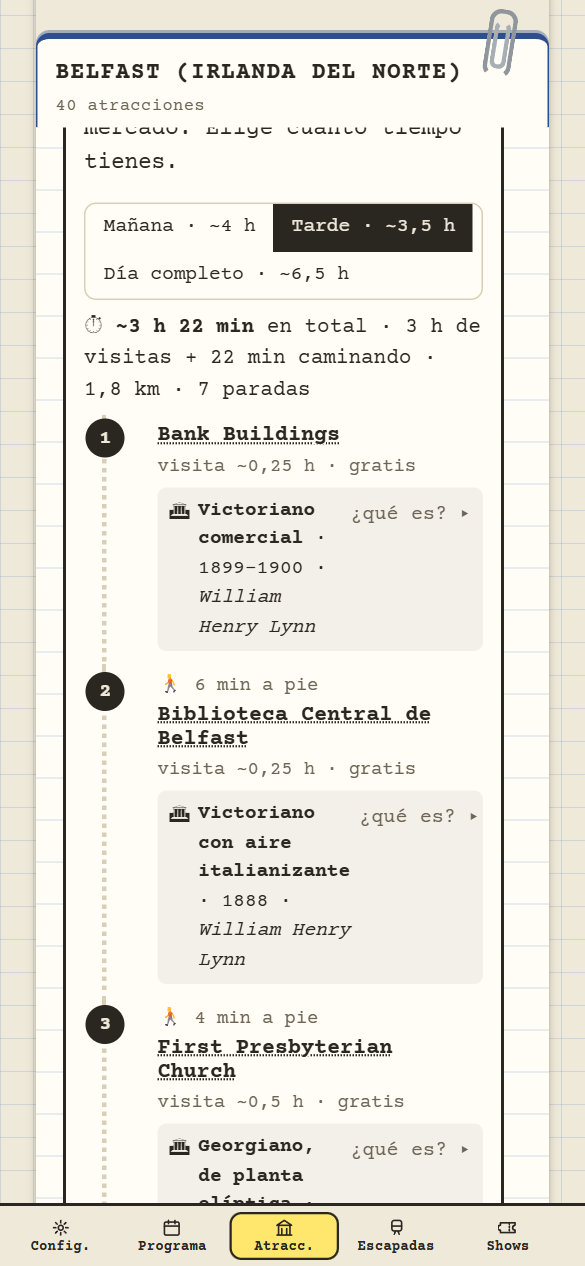
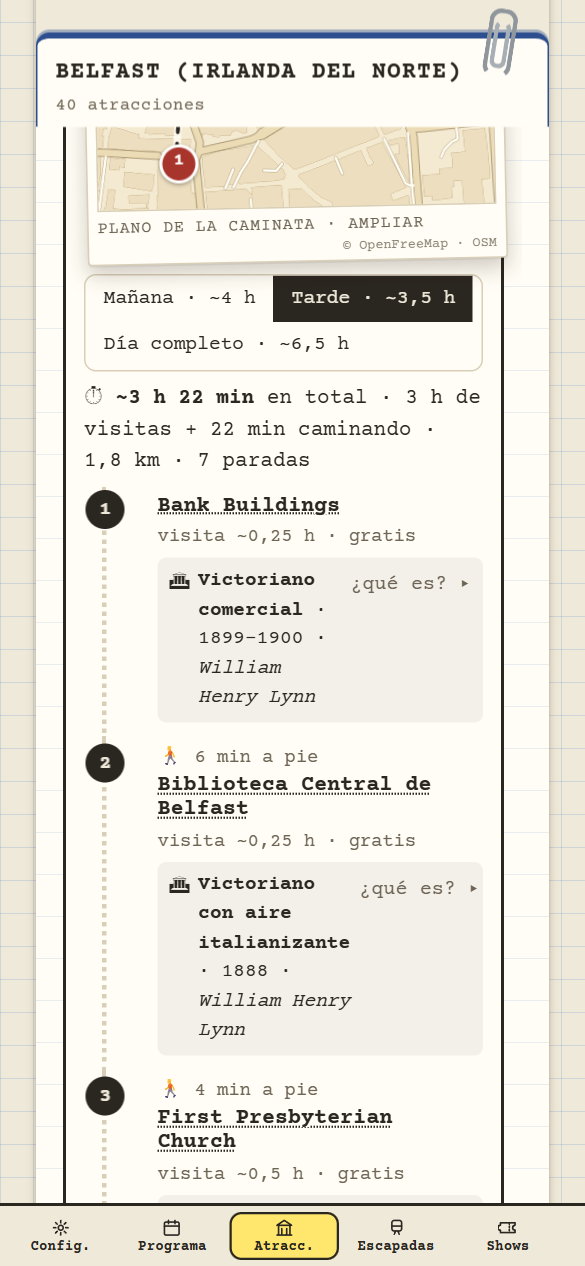
Atracciones: el carrusel toma la altura de la ficha actual; plano con clip para cada caminata (puntos numerados y recorrido); prompts de ilustraciones de Belfast

diff --git a/v2/pestanas.js b/v2/pestanas.js
@@ -3,6 +3,7 @@
 import {SUB,selDe,diasDe,CAP,GRUPOS,grupoDe,agrupar} from "./motor.js";
 import {alternarAtr,formNueva,quitarCustom,bindNueva,diasCiudad} from "./programa.js";
 import {arqHTML} from "./estilos.js";
+import {mlStyle} from "./mlstyle.js";
 
 const COL=["#2e4f8f","#1d6f7a","#a8352b","#2e6b4f","#b8860b","#7b4ba0","#c2477f"];
 const FM=v=>(+v).toLocaleString("es-CL",{maximumFractionDigits:2})+" €";
@@ -56,6 +57,21 @@ function contextoHTML(ctx,cid){const M=ctx.M[cid],C=M.CONTEXTO,U=M.UNDIA||[],ME=
   if(ME.length)h+=`<details class="cxs" data-cx="${cid}:med"${cxOpen(cid+":med")}><summary>🎬 Cine, música y libros para conocerla</summary>
    <div class="media">${ME.map(([t,tipo,d,ed])=>`<div class="mi"><b>${ctx.esc(t)}</b><small>${ctx.esc(tipo)}${ed?" · "+ctx.esc(ed):""}</small><p>${ctx.esc(d)}</p></div>`).join("")}</div></details>`;
   return h}
+// ---------- plano de cada caminata (mismo estilo que el plano del día del Programa)
+let RM=[];
+function mapaRuta(ctx,el,P){const m=new maplibregl.Map({container:el,style:mlStyle(),interactive:true,attributionControl:false,
+    bounds:[[Math.min(...P.map(a=>a.ll[1])),Math.min(...P.map(a=>a.ll[0]))],[Math.max(...P.map(a=>a.ll[1])),Math.max(...P.map(a=>a.ll[0]))]],fitBoundsOptions:{padding:30,maxZoom:16}});
+  m.scrollZoom.disable();m.dragPan.disable();m.touchZoomRotate.disable();m.doubleClickZoom.disable();el._m=m;RM.push(m);
+  P.forEach((a,k)=>{const w=document.createElement("div");w.className="mlmk";w.innerHTML=`<div class="lm-a${a.top?" top":""}">${k+1}</div>`;new maplibregl.Marker({element:w,anchor:"left",offset:[-11,0]}).setLngLat([a.ll[1],a.ll[0]]).addTo(m)});
+  m.on("load",()=>{const f=P.slice(1).map((a,i)=>({type:"Feature",properties:{},geometry:{type:"LineString",coordinates:[[P[i].ll[1],P[i].ll[0]],[a.ll[1],a.ll[0]]]}}));
+    m.addSource("walk",{type:"geojson",data:{type:"FeatureCollection",features:f}});
+    m.addLayer({id:"walk-h",type:"line",source:"walk",layout:{"line-cap":"round","line-join":"round"},paint:{"line-color":"#fffdf5","line-width":5,"line-opacity":.85}});
+    m.addLayer({id:"walk",type:"line",source:"walk",layout:{"line-cap":"round","line-join":"round"},paint:{"line-color":"#2a2620","line-width":2.6,"line-dasharray":[0.2,2]}})});
+  return m}
+function initMapasRuta(ctx){if(!window.maplibregl)return;
+  document.querySelectorAll(".lmap[data-rmap]").forEach(el=>{if(el._m||!el.offsetParent)return;const [cid,rid,k]=el.dataset.rmap.split(":"),ru=(ctx.M[cid].RUTAS||[]).find(x=>x.id===rid),v=ru&&(ru.v||[]).find(x=>x.k===k);if(!v)return;
+    const A=Object.fromEntries((ctx.M[cid].ATRACCIONES||[]).map(a=>[a.id,a])),P=v.ids.map(i=>A[i]).filter(a=>a&&a.ll);if(P.length<1)return;
+    try{el.classList.add("ml");mapaRuta(ctx,el,P)}catch(e){console.warn("mapa ruta",e);el.classList.remove("ml")}})}
 // ---------- recorridos a pie temáticos, según el tiempo disponible
 const hmin=m=>{m=Math.round(m);const h=Math.floor(m/60),x=m%60;return h?`${h} h${x?" "+x+" min":""}`:`${x} min`};
 function datosRuta(ctx,cid,v){const A=Object.fromEntries((ctx.M[cid].ATRACCIONES||[]).map(a=>[a.id,a])),P=(v.ids||[]).map(i=>A[i]).filter(Boolean);
@@ -66,6 +82,7 @@ function rutasHTML(ctx,cid){const M=ctx.M[cid],R=M.RUTAS||[];if(!R.length)return
    <p class="muted" style="margin-top:0">Cada recorrido viene en versiones según el tiempo que tengas. Al agregarlo, sus paradas pasan al programa y se reparten en tus días.</p>
    <div class="rutarail">${R.map(ru=>{const vs=ru.v||[],cur=vs.find(x=>x.k===E.rv[cid+":"+ru.id])||vs[0];if(!cur)return "";const d=datosRuta(ctx,cid,cur),todo=cur.ids.every(i=>S.has(i));
     return `<div class="ruta"><h3>${ru.e||"🚶"} ${ctx.esc(ru.n)}</h3>${ru.d?`<p>${ctx.esc(ru.d)}</p>`:""}${ilu(ctx,ru.img)}
+     ${window.maplibregl?`<div class="mapclip lclip rmapclip" data-rclip="${cid}:${ru.id}:${cur.k}" role="button" tabindex="0" aria-label="Ampliar el plano de la caminata"><span class="clip" aria-hidden="true"></span><div class="lmap" data-rmap="${cid}:${ru.id}:${cur.k}"></div><span class="mc-cap">Plano de la caminata · ampliar</span><span class="mc-cr">© OpenFreeMap · OSM</span></div>`:""}
      <div class="seg" role="group" aria-label="Tiempo disponible">${vs.map(x=>{const t2=datosRuta(ctx,cid,x).tot,hh=Math.round(t2/30)/2;return `<button type="button" data-rv="${cid}:${ru.id}:${x.k}" aria-pressed="${x.k===cur.k}">${ctx.esc(x.n)} · ~${String(hh).replace(".",",")} h</button>`}).join("")}</div>
      <p class="rtot">⏱ <b>~${hmin(d.tot)}</b> en total · ${hmin(d.vis*60)} de visitas + ${hmin(d.cam)} caminando · ${d.km.toFixed(1).replace(".",",")} km · ${d.T.length} paradas</p>
      <ol class="rstops">${d.T.map(({a,w},i)=>`<li>${i?`<span class="rwalk">🚶 ${w} min a pie</span>`:""}<button type="button" class="aln" data-fjump="fa-${cid}-${a.id}">${ctx.esc(limpiaN(a.n))}</button><small>visita ~${num1(a.h)} h · ${a.p?FM(a.p):"gratis"}</small>${a.arq?arqHTML(a.arq):""}${cur.n2&&cur.n2[a.id]?`<em>${ctx.esc(cur.n2[a.id])}</em>`:""}</li>`).join("")}</ol>
@@ -120,6 +137,12 @@ export function atracciones(ctx){
 }
 export function bindAtracciones(ctx){const Q=(s,f)=>document.querySelectorAll(s).forEach(f),R=()=>{ctx.guardar();ctx.render()};
   bindNueva(ctx);
+  RM.forEach(m=>{try{m.remove()}catch(e){}});RM=[];
+  Q(".rmapclip",c=>{const tog=()=>{const big=c.classList.toggle("rbig"),m=c.querySelector(".lmap")._m;c.querySelector(".mc-cap").textContent=big?"Plano de la caminata · reducir":"Plano de la caminata · ampliar";
+      if(m){setTimeout(()=>{m.resize();const b=m.getBounds();m.fitBounds(b,{padding:30,duration:0});if(big){m.dragPan.enable();m.touchZoomRotate.enable();m.scrollZoom.disable()}else{m.dragPan.disable();m.touchZoomRotate.disable()}},60)}};
+    c.onclick=tog;c.onkeydown=e=>{if(e.key==="Enter"||e.key===" "){e.preventDefault();tog()}}});
+  setTimeout(()=>initMapasRuta(ctx),0);
+  Q("details.rutas",d=>d.addEventListener("toggle",()=>{if(d.open)setTimeout(()=>initMapasRuta(ctx),0)}));
   Q("[data-afil]",b=>b.onclick=()=>{E.fil=b.dataset.afil;ctx.render()});
   Q("[data-azon]",b=>b.onclick=()=>{E.zon=b.dataset.azon;ctx.render()});
   Q("[data-atip]",b=>b.onclick=()=>{E.tip=b.dataset.atip;ctx.render()});
@@ -137,7 +160,11 @@ export function bindAtracciones(ctx){const Q=(s,f)=>document.querySelectorAll(s)
   Q(".fichas.att",rail=>{const nav=rail.previousElementSibling;if(!nav||!nav.classList.contains("railnav"))return;const cs=[...rail.children];if(!cs.length)return;
     const rp=nav.querySelector(".rp"),bar=nav.querySelector("i"),bs=nav.querySelectorAll("[data-rail]");
     const cur=()=>{if(rail.scrollLeft+rail.clientWidth>=rail.scrollWidth-4)return cs.length-1;const l=rail.getBoundingClientRect().left;const i=cs.findIndex(c=>c.getBoundingClientRect().right-l>40);return i<0?0:i};
-    const upd=()=>{const i=cur();rp.textContent=`${i+1} de ${cs.length}`;bar.style.width=(i+1)/cs.length*100+"%";bs[0].disabled=i<=0;bs[1].disabled=i>=cs.length-1};
+    // En el celular el carrusel toma la altura de la ficha que se está viendo (no la de la más larga), para que lo que sigue quede pegado a ella.
+    const fit=()=>{if(getComputedStyle(rail).display!=="flex"){rail.style.height="";rail.style.alignItems="";rail.style.overflowY="";return}const f=cs[cur()];rail.style.alignItems="flex-start";rail.style.overflowY="hidden";rail.style.height=(f.offsetHeight+10)+"px"};
+    const upd=()=>{const i=cur();rp.textContent=`${i+1} de ${cs.length}`;bar.style.width=(i+1)/cs.length*100+"%";bs[0].disabled=i<=0;bs[1].disabled=i>=cs.length-1;fit()};
+    if(window.ResizeObserver){const ro=new ResizeObserver(()=>fit());cs.forEach(c=>ro.observe(c))}
+    addEventListener("resize",fit);
     rail.addEventListener("scroll",()=>requestAnimationFrame(upd),{passive:true});
     bs.forEach(b=>b.onclick=()=>{const j=Math.max(0,Math.min(cs.length-1,cur()+ +b.dataset.rail));rail.scrollBy({left:cs[j].getBoundingClientRect().left-rail.getBoundingClientRect().left-2,behavior:"smooth"})});upd()});
   Q(".fichas.att .ficha",f=>{if(E.open.has(f.id))f.classList.add("open");f.onclick=e=>{if(innerWidth>700||e.target.closest("a,button,select,input,label"))return;f.classList.toggle("open");f.classList.contains("open")?(E.open.add(f.id),f.scrollIntoView({inline:"center",block:"nearest",behavior:"smooth"})):E.open.delete(f.id)}});

diff --git a/v2/motor.css b/v2/motor.css
@@ -183,3 +183,9 @@ li.lgh small{font-weight:400}
 /* Ilustraciones de la ciudad */
 figure.ilu{margin:10px 0;text-align:center}figure.ilu img{display:block;width:100%;max-width:560px;margin:0 auto;border-radius:6px;border:2px solid var(--ink);box-shadow:3px 4px 0 rgba(0,0,0,.18)}
 figure.ilu figcaption{margin-top:5px;font:italic 13px var(--f-body);color:var(--muted)}
+
+/* Plano de cada caminata */
+.rmapclip{display:block;width:min(330px,100%);margin:10px auto 6px;transform:rotate(-1.2deg);cursor:zoom-in}
+.rmapclip .lmap{height:210px;pointer-events:none}
+.rmapclip.rbig{width:100%;transform:none;cursor:zoom-out}.rmapclip.rbig .lmap{height:min(60vh,440px);pointer-events:auto}
+.rmapclip .mc-cap{display:block;position:static;margin-top:4px}.rmapclip .mc-cr{position:static;display:block;text-align:right;font-size:9px}

diff --git a/ILUSTRACIONES-BELFAST.md b/ILUSTRACIONES-BELFAST.md
@@ -1,0 +1,55 @@
+# Ilustraciones de Belfast: prompts
+
+Cada imagen se guarda en `img/belfast/` con el nombre indicado. La app ya tiene el lugar reservado: mientras el archivo no exista no se muestra nada, y apenas se agregue aparece sola.
+
+## Estilo común (pégalo al comienzo de cada prompt)
+
+> Ilustración tipo cuaderno de viaje de un arquitecto, dibujada a mano con tinta negra fina y acuarela suave y desaturada, sobre papel crema envejecido con textura de papel y cuadrícula azul pálida muy tenue. Paleta limitada: rojo ladrillo (#a8352b), ocre (#b8860b), azul de Prusia (#2e4f8f), verde musgo (#2e6b4f), crema y negro tinta. Líneas de contorno con trazo irregular de pluma, sombreado con rayado cruzado, pequeñas anotaciones manuscritas en español con flechas finas, un sello de goma redondo y un trozo de cinta adhesiva (washi) en una esquina. Sin fotorrealismo, sin degradados digitales, sin fondo blanco puro. Composición limpia con margen alrededor. Formato horizontal 3:2, 1500 × 1000 px. Todos los textos en español, cortos y legibles, sin faltas de ortografía.
+
+## Las 12 ilustraciones
+
+### 01 · `01-portada.jpg` — Portada de Belfast (arriba de «Sobre la ciudad»)
+Panorama del horizonte de Belfast visto desde el río Lagan: la cúpula verde del Ayuntamiento, la aguja de la catedral de St Anne, la torre inclinada del Albert Clock, las grúas amarillas Samson y Goliath, el edificio angular del Titanic Belfast y, al fondo, la ladera de Cave Hill. Ladrillo rojo y piedra clara. Cartel manuscrito: «Belfast · ladrillo, piedra y acero». Formato panorámico 2:1, 1600 × 800 px.
+
+### 02 · `02-mapa-historico.jpg` — Dónde nació Belfast (en la Historia, tras el primer párrafo)
+Mapa antiguo dibujado a mano de la desembocadura del pequeño río Farset en el río Lagan, con el vado, un fuerte normando en miniatura, un velero y la ladera de Cave Hill al fondo. Leyendas manuscritas: «Béal Feirste = boca del vado del Farset», «río Lagan», «río Farset (hoy bajo las calles)», «1177 · llegan los normandos». Rosa de los vientos pequeña en una esquina.
+
+### 03 · `03-titanic-astilleros.jpg` — El astillero (en la Historia, siglo XIX)
+Vista de astillero a la manera de plano técnico antiguo: el casco del Titanic sobre las gradas con andamios de madera, las dos grúas amarillas Samson y Goliath (en un estilo posterior, indicadas con una nota «llegaron en 1969 y 1974»), obreros diminutos con gorra y un letrero «Harland & Wolff · 1861». Notas manuscritas: «botado en 1911», «se hundió en 1912». Tonos azul de Prusia y ocre.
+
+### 04 · `04-ayuntamiento.jpg` — Ayuntamiento de Belfast (ficha del City Hall)
+Elevación arquitectónica de la fachada del Ayuntamiento de Belfast (Barroco eduardiano, 1898–1906), dibujada con tinta y acuarela, simétrica y frontal. Anotaciones con flechas: «cúpula de cobre · ~53 m», «piedra de Portland clara», «cuatro torres en las esquinas», «frontón escultórico», «jardines con estatuas». Un pequeño recuadro con el perfil del edificio y la escala humana.
+
+### 05 · `05-escudo-banderas.jpg` — Escudo, bandera y símbolos (en «Escudo, bandera y símbolos»)
+Lámina heráldica: al centro el escudo de armas de Belfast con una nave y una campana en el campo, un lobo y un caballito de mar como sostenedores y una cinta con el lema «Pro tanto quid retribuamus». Abajo, tres pequeños sellos con banderas: la Union Jack, la «Ulster Banner» (cruz roja con la Mano Roja y una corona) y el tricolor verde-blanco-naranja. Notas: «la nave = el puerto», «la campana juega con Bel-fast», «el lobo = familia Chichester», «el caballito de mar = el mar».
+
+### 06 · `06-torre-inclinada.jpg` — Torre inclinada (ficha del Albert Memorial Clock)
+La torre del Albert Memorial Clock dibujada con su inclinación exagerada junto a una línea vertical punteada de referencia. Debajo, un corte del terreno que muestra los pilotes de madera sobre el antiguo cauce del río Farset. Notas: «se inclina más de 1 m», «construida sobre el río», «1865–1869 · W. J. Barre».
+
+### 07 · `07-crown-bar.jpg` — Crown Liquor Saloon (ficha del pub y «Qué comer y beber»)
+Ilustración de corte: fachada de azulejos policromados con mosaico y, a la derecha, el interior con la larga barra, los reservados de madera tallada («snugs») con sus puertas y timbres, vitrales y faroles de gas. Notas: «palacio de la ginebra victoriano», «10 snugs con timbre para llamar al camarero», «National Trust desde 1978». **Para este usa una foto de referencia** (ver más abajo).
+
+### 08 · `08-ulster-fry.jpg` — Ulster fry (en «Qué comer y beber»)
+Plato de desayuno visto desde arriba, en acuarela: huevo frito, tocino, salchicha, tomate asado, champiñones, morcilla y, a un costado, dos panes fritos —pan de soda en triángulo y pan de patata—, con una taza de té. Anotaciones con flechas: «soda bread», «potato farl», «lo propio del Ulster». Mantel de cuadros rojos y crema.
+
+### 09 · `09-colores-calles.jpg` — Los colores de las calles (en «Cosas que casi nadie nota»)
+Ilustración neutral y didáctica de dos tramos de calle seguidos: a la izquierda, bordillos y banderines pintados de rojo, blanco y azul; a la derecha, bordillos y banderines de verde, blanco y naranja; en el medio, un muro alto de separación con un portón. Notas sobrias: «los colores indican a qué comunidad pertenece cada barrio», «muro de la paz». Sin figuras humanas ni rostros, tono respetuoso y no partidista.
+
+### 10 · `10-hogueras.jpg` — La noche del 11 de julio (en «Cosas que casi nadie nota»)
+Una torre muy alta de palés de madera apilados, lista para encenderse, sobre un descampado entre casas de ladrillo, con cielo de atardecer. Nota: «11 de julio: hogueras gigantes · 12 de julio: desfiles». Lenguaje cultural y neutral, sin banderas ni símbolos políticos.
+
+### 11 · `11-billetes.jpg` — Billetes norirlandeses (en «Cosas que casi nadie nota»)
+Ilustración **estilizada, no una réplica**: tres billetes de libra esterlina inventados, de distintos colores, dibujados a mano y levemente inclinados, con motivos genéricos (puente, barco, estrella) y texto genérico «Banco de Irlanda del Norte», sin números de serie, sin retratos reales ni elementos de seguridad. Notas: «cada banco emite los suyos», «válidos en el Reino Unido, pero algunos comercios de Inglaterra los rechazan».
+
+### 12 · `12-mapa-caminata.jpg` — Mapa ilustrado de la caminata arquitectónica (en «Recorridos a pie»)
+Mapa dibujado a mano del centro de Belfast con doce edificios dibujados en miniatura, numerados y unidos por una línea punteada de recorrido: Ayuntamiento, Linen Hall, Grand Opera House, Crown Bar, Royal Courts, Albert Clock, Custom House, Merchant Hotel, Catedral de St Anne, St George's Market, iglesia de St George y Titanic Belfast al borde del río. Leyenda: «Caminata arquitectónica · ~4 h».
+
+## Foto de referencia para el pub
+
+El pub con la arquitectura más interesante de Belfast es el **Crown Liquor Saloon** (Great Victoria Street): un «gin palace» victoriano de hacia 1885, con fachada de azulejos y reservados de madera. Fotos libres de derechos en Wikimedia Commons:
+
+- https://en.wikipedia.org/wiki/Crown_Liquor_Saloon (las fotos de ese artículo vienen de Wikimedia Commons; ábrelas y elige una del interior con los reservados y otra de la fachada)
+
+Si el generador de imágenes acepta una imagen de referencia, sube esa foto y añade al prompt: «Dibuja el pub de la foto de referencia en el estilo descrito, conservando sus proporciones y detalles».
+
+Otros pubs con arquitectura antigua, por si quieres una segunda lámina: Kelly's Cellars (taberna del siglo XVIII), McHugh's (se presenta como el edificio más antiguo de Belfast, hacia 1710–1720) y White's Tavern (en un callejón medieval).
